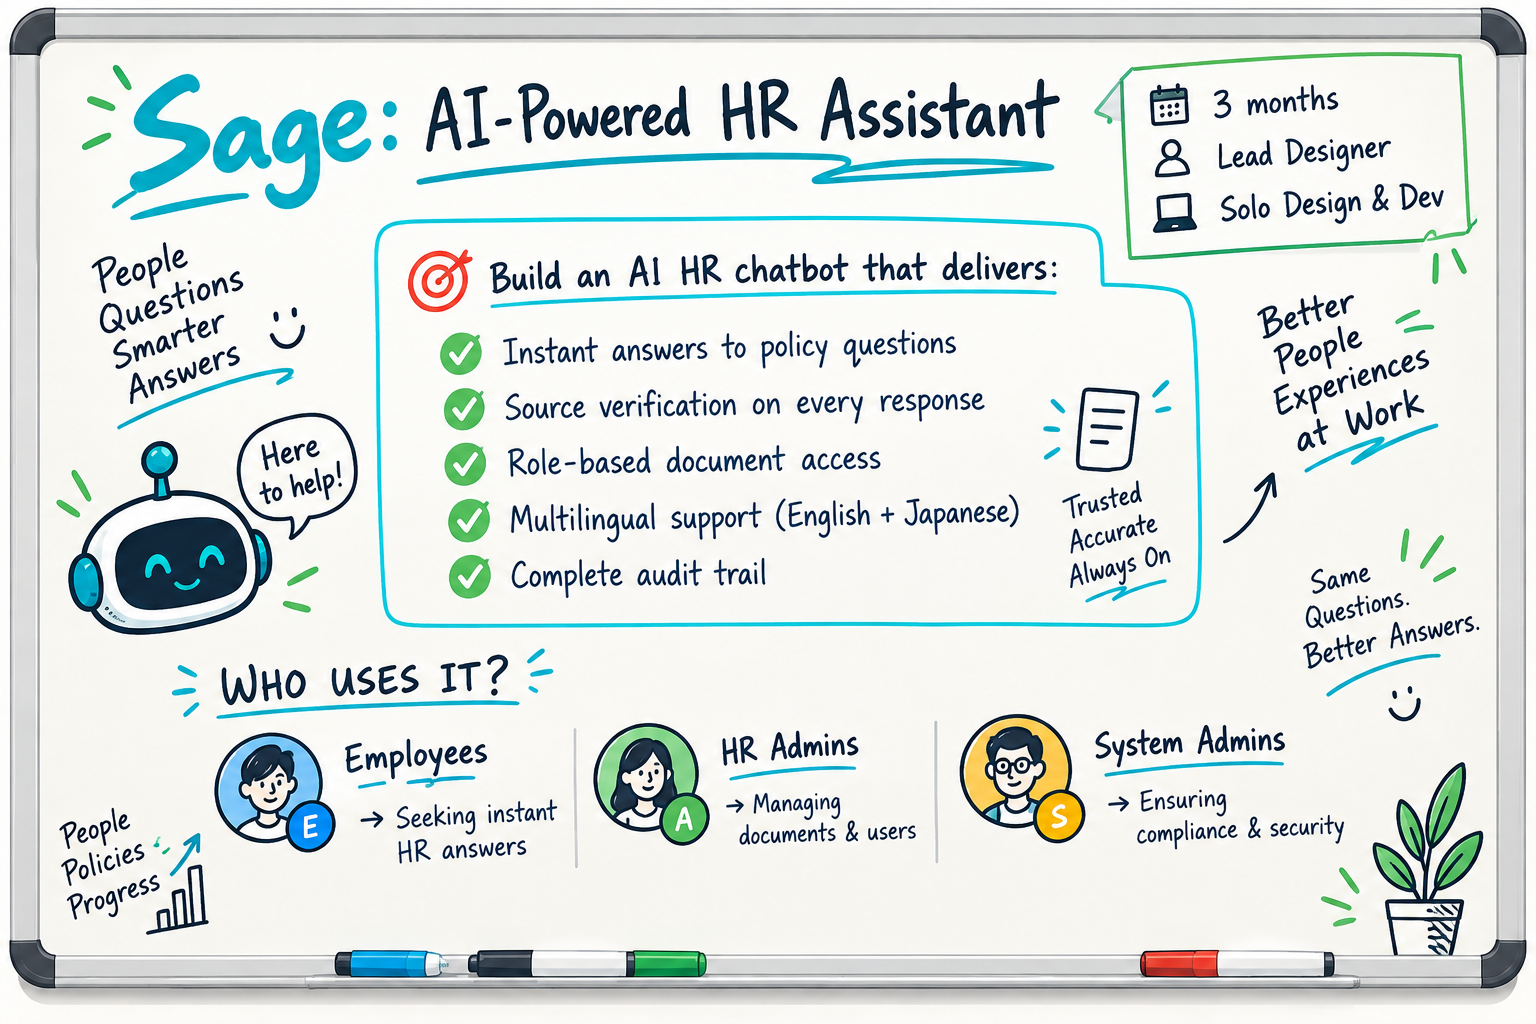
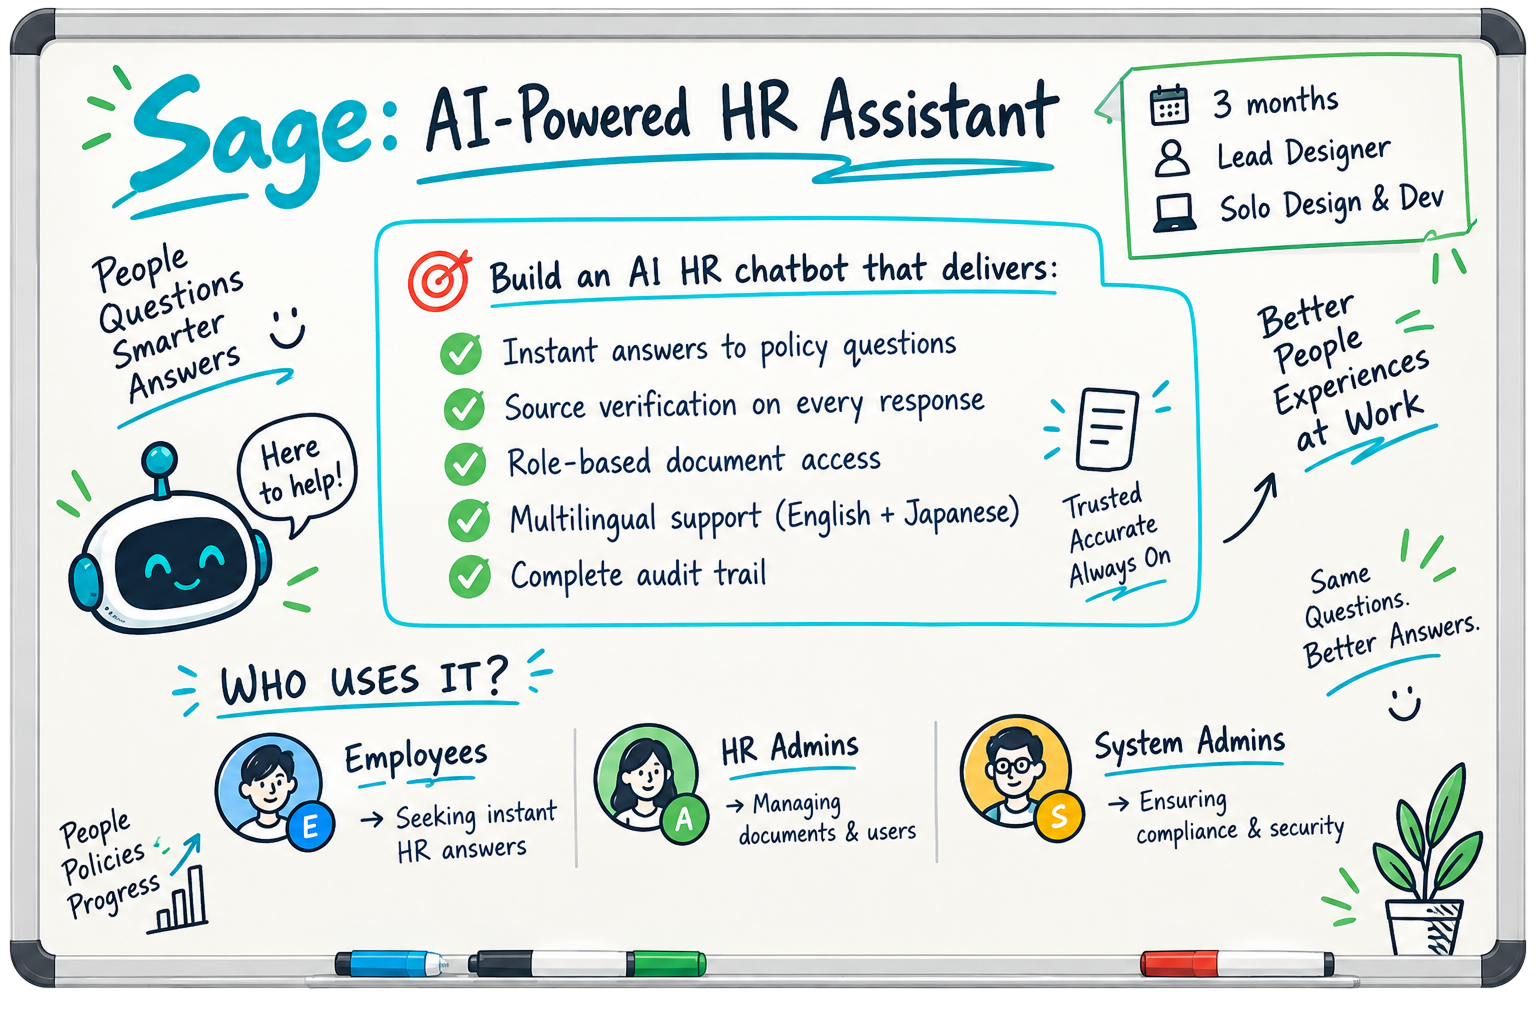
Stack persona cards on mobile, minor case study asset update
Adds a mobile breakpoint for the Aditya/Priya persona cards: image
full-width on top, text below, instead of a cramped side-by-side row
below 640px.

Changed region(s): [[0.0, 0.9375, 1.0, 1.0]]

diff --git a/src/pages/CaseStudy.jsx b/src/pages/CaseStudy.jsx
@@ -400,6 +400,13 @@ export default function CaseStudy() {
           .sage-mockup-grid {
             grid-template-columns: 1fr !important;
           }
+          .persona-card {
+            flex-direction: column !important;
+          }
+          .persona-card img {
+            width: 100% !important;
+            max-width: none !important;
+          }
         }
       `}</style>
 
@@ -957,7 +964,7 @@ export default function CaseStudy() {
                 gap: 40
               }}>
                 {/* PERSONA 1: ADITYA */}
-                <div style={{
+                <div className="persona-card" style={{
                   display: "flex",
                   gap: 32,
                   alignItems: "flex-start",
@@ -1066,7 +1073,7 @@ export default function CaseStudy() {
                 </div>
 
                 {/* PERSONA 2: PRIYA */}
-                <div style={{
+                <div className="persona-card" style={{
                   display: "flex",
                   gap: 32,
                   alignItems: "flex-start",
